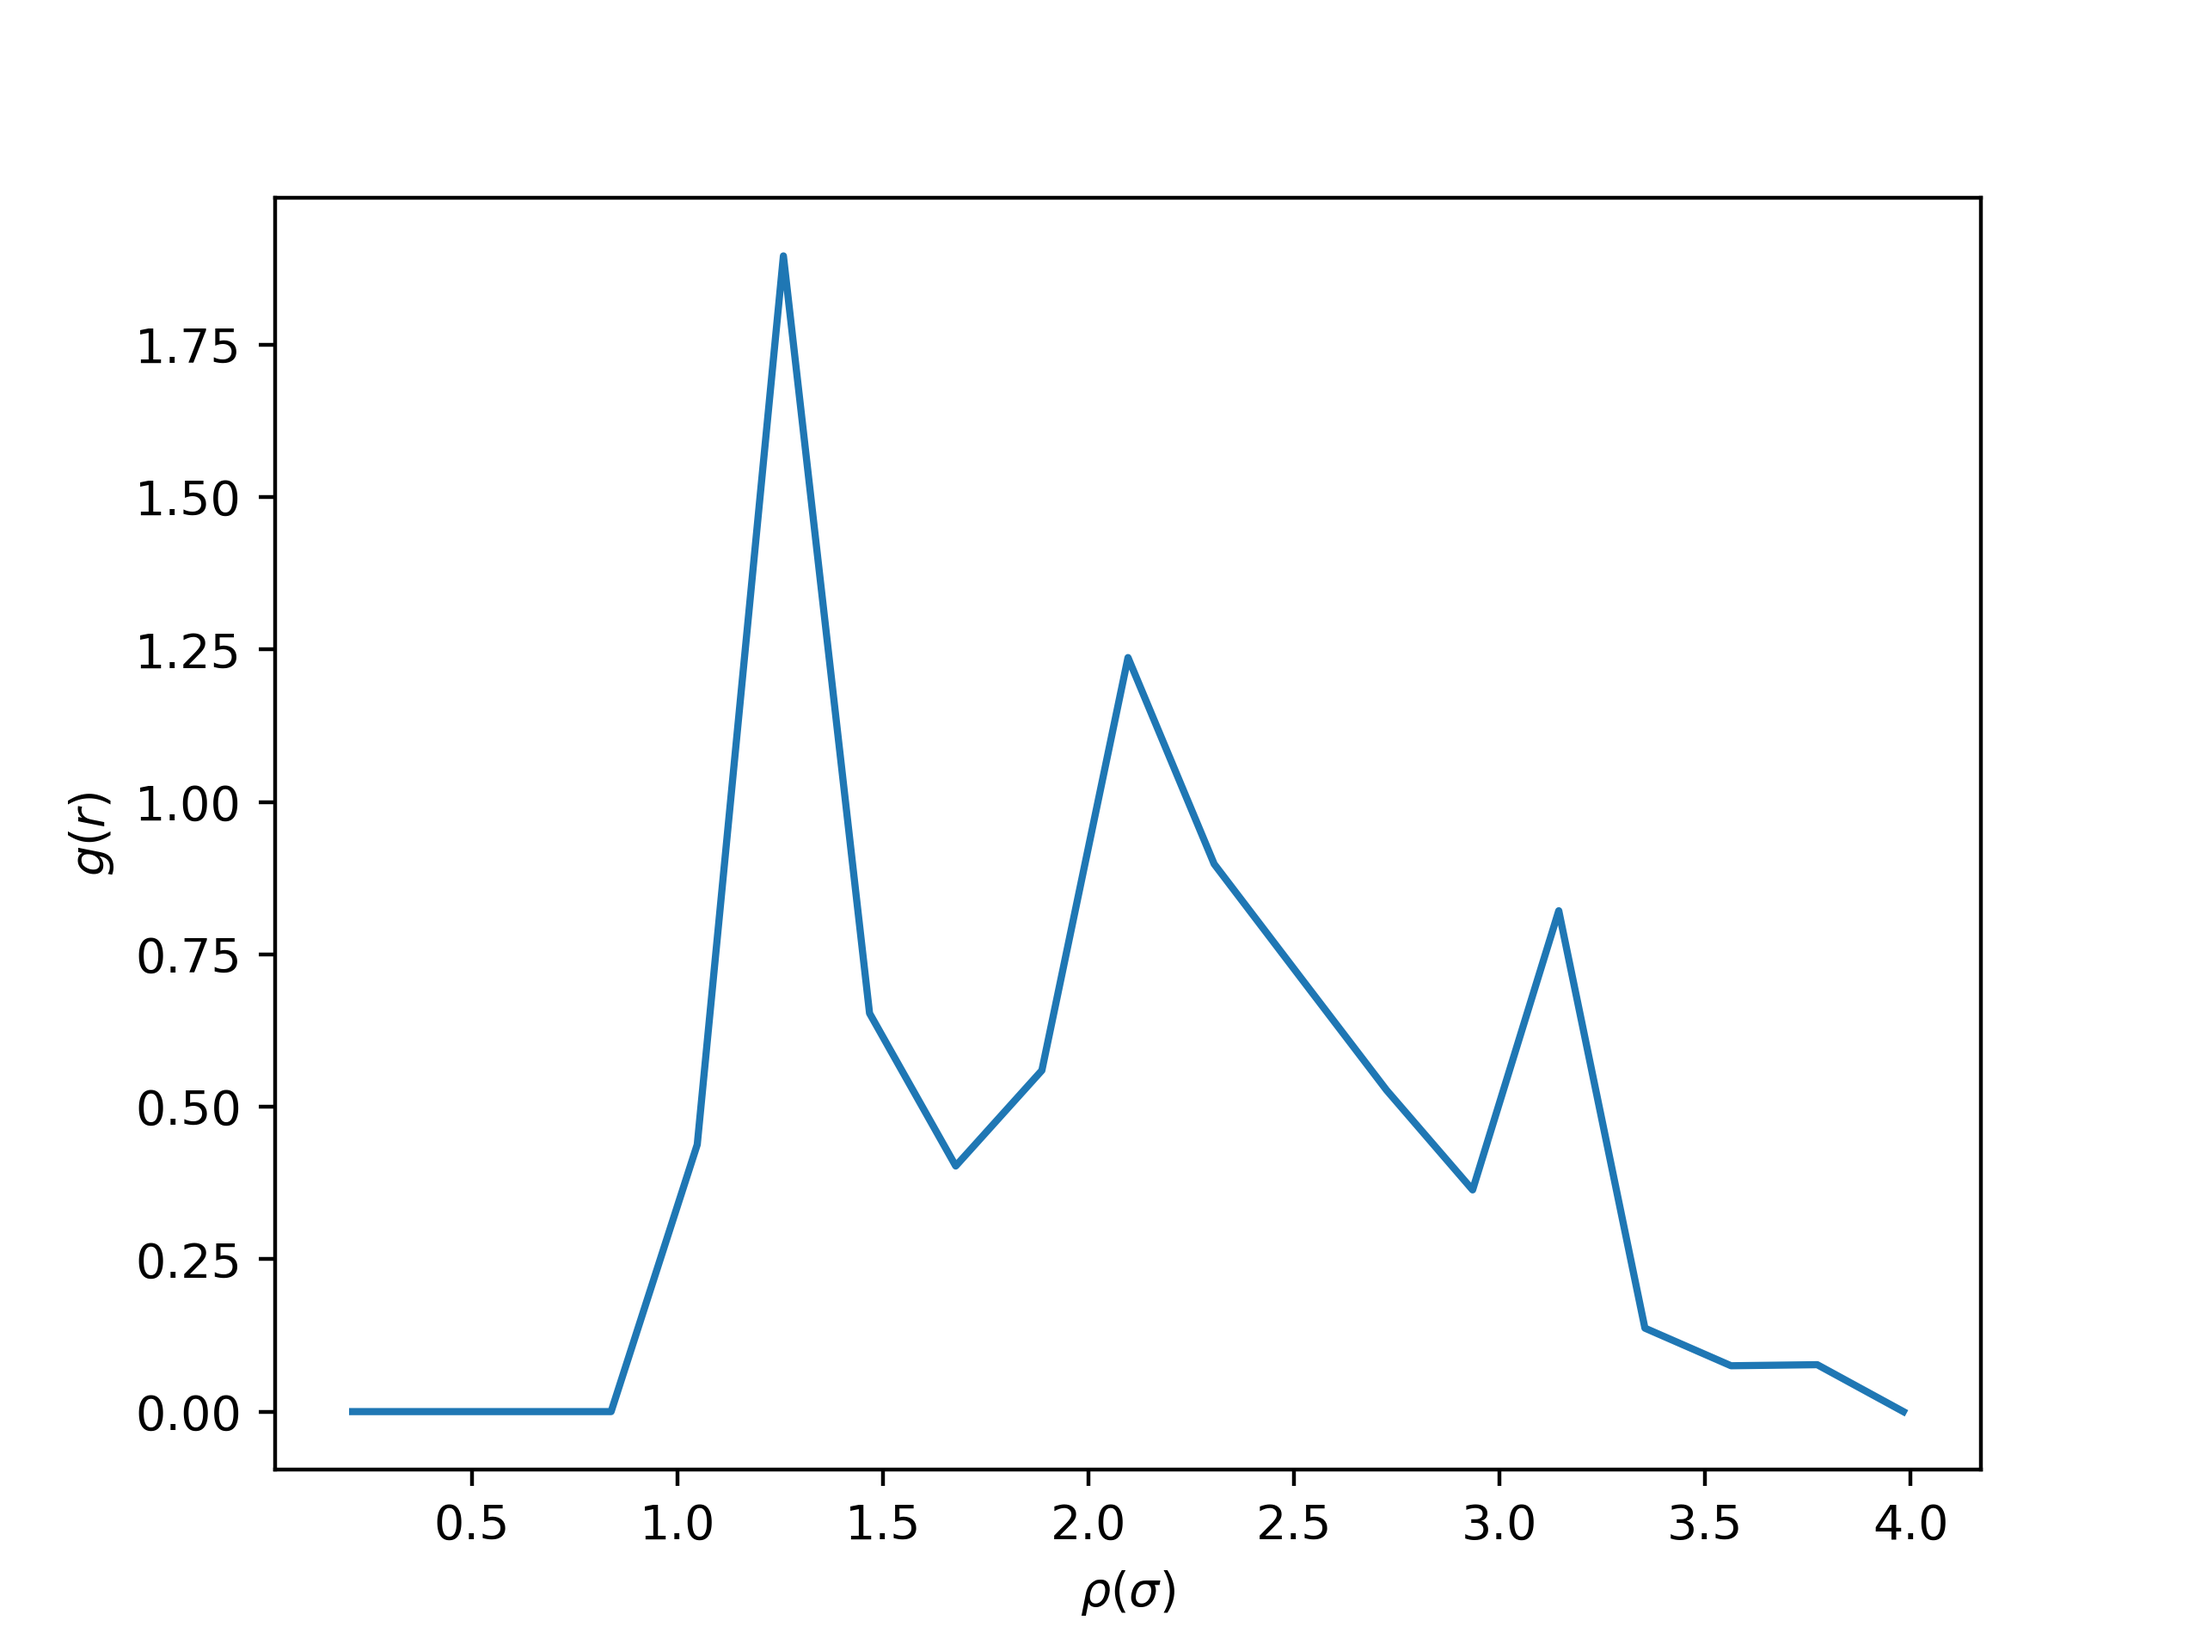
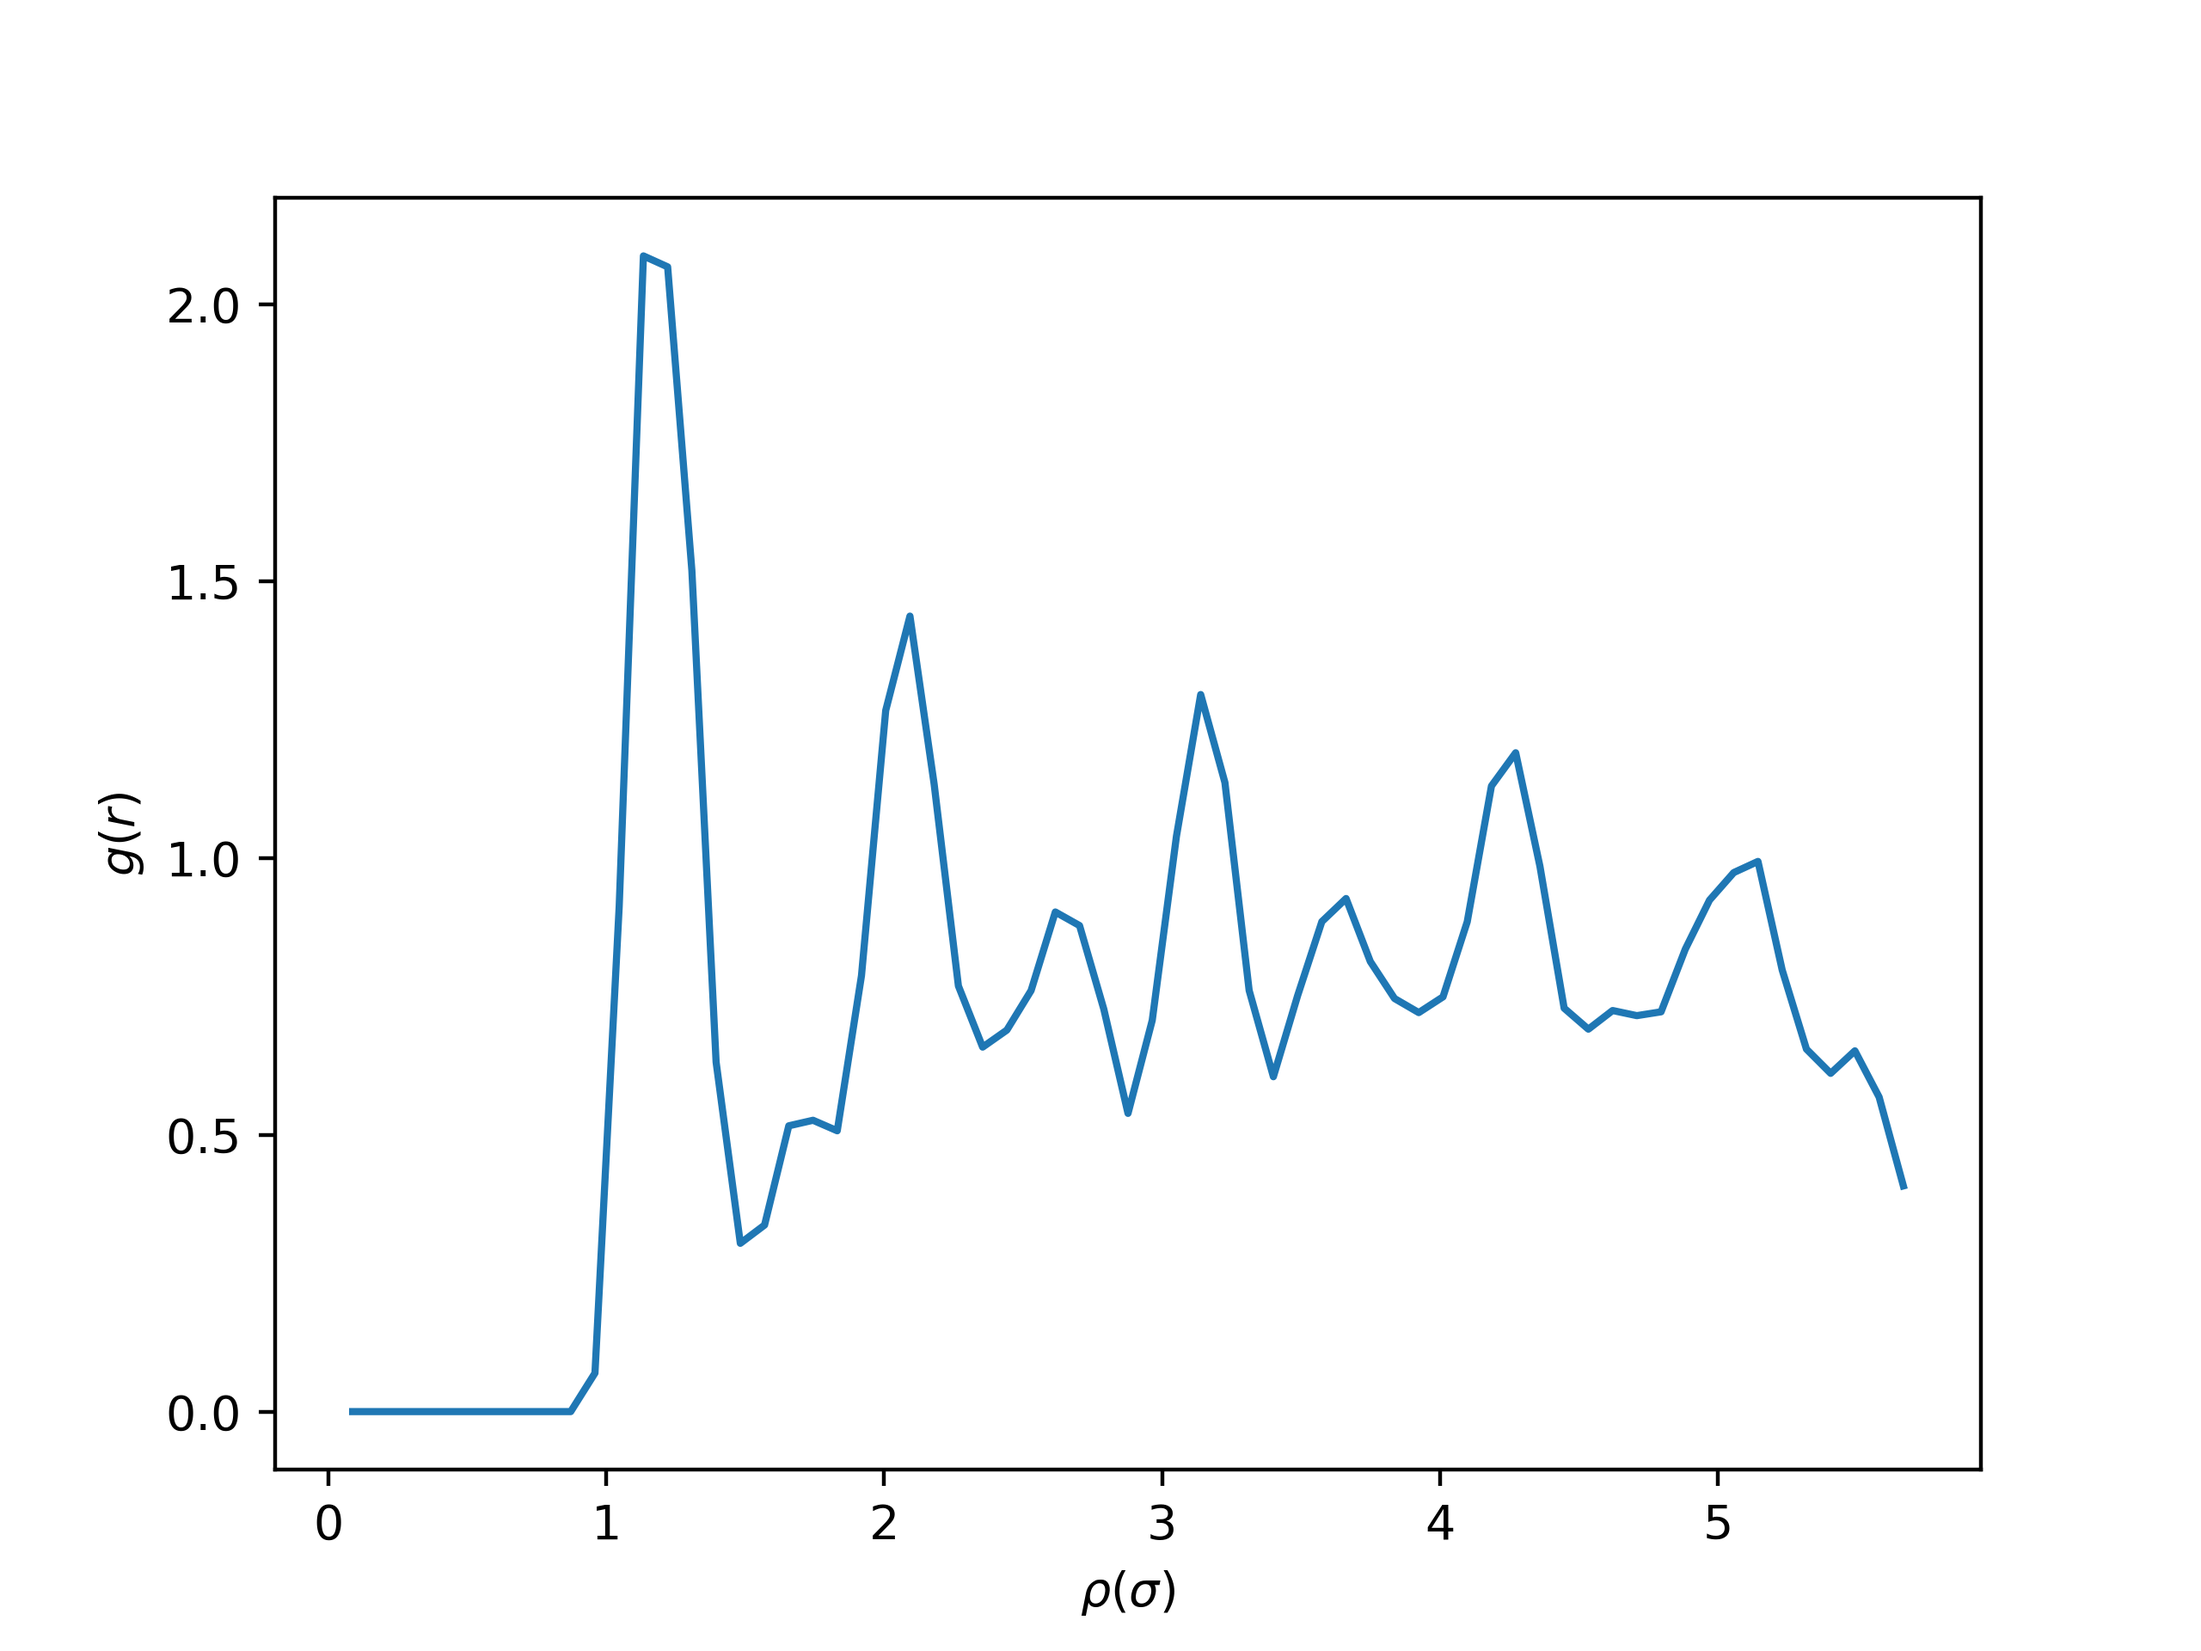
hw2: D solved

diff --git a/backup/hw2_5.py b/backup/hw2_5.py
@@ -1,0 +1,133 @@
+import numpy as np
+from itertools import product
+from matplotlib import pyplot as plt
+from scipy.optimize import curve_fit
+import copy
+
+
+sigma = 0.3405
+rho = 0.8676  # density of Argon in reduced units
+dt = 0.001  # time step size
+T_0 = 1.6945  # temperature
+N_cell = 3  # number of fcc unitcells in one direction
+N = 4 * N_cell ** 3  # the total number of particles in the system
+L_box = (N / rho) ** (1 / 3.0)  # length of the whole simulation box
+L_cell = L_box / N_cell  # length of a unitcell
+F = np.zeros((N, N, 3))  # matrix that contains all forces
+ind = np.triu_indices(N, k=1)  # indices of upper triangular matrix
+
+
+def IC_pos(N_cell, L_cell):
+    '''
+    use fcc structure to initilize positions
+    '''
+    pos = [[[x, y, z], [x, 0.5 + y, 0.5 + z], [0.5 + x, y, 0.5 + z], [0.5 + x, 0.5 + y, z]]
+           for x, y, z in product(range(N_cell), range(N_cell), range(N_cell))]
+    pos = np.array(pos).reshape((-1, 3))
+    return pos * L_cell
+
+
+def IC_vel(N):
+    '''
+    Maxwell-Boltzman distribution is a normal distribution
+    '''
+    vel = np.sqrt(T_0) * np.random.randn(N, 3)
+    vel -= np.average(vel, axis=0)
+    return vel
+
+
+def find_force(pos, L_box=L_box):
+    '''
+    Minimum image convention.
+    '''
+    r_vec = pos[ind[0]] - pos[ind[1]]
+    r_vec = r_vec - np.rint(r_vec / L_box) * L_box
+    r_sq = np.sum(r_vec ** 2, axis=1)
+    F_vec = -(48 / r_sq ** 7 - 24 / r_sq ** 4)[:, None] * r_vec
+    F[ind[0], ind[1]] = F_vec
+    pot = np.sum(4 / r_sq ** 6 - 4 / r_sq ** 3)
+    P = np.sum(F_vec * r_vec)
+    return np.sum(F, axis=0) - np.sum(F, axis=1), pot, P
+
+
+def time_step(pos, vel, F):
+    vel += 0.5 * F * dt
+    pos = pos + vel * dt
+    pos_folded = np.mod(pos, L_box)
+    # pos = np.mod(pos + vel * dt, L_box) # why both pos and pos_folded?
+    F, pot, P = find_force(pos_folded)
+
+    vel += 0.5 * F * dt
+    kin = 0.5 * np.sum(vel ** 2)
+    return pos, vel, F, pot, kin, P
+
+def simulate():
+    kins, pots, Ps, pos0, vel0, poss, vels = [], [], [], [], [], [], []
+    pos, vel = IC_pos(N_cell, L_cell), IC_vel(N)
+    F = find_force(pos)[0]
+    for t in range(int(4/dt)):
+        pos, vel, F, pot, kin, P = time_step(pos, vel, F)
+        if t == int(2/dt):
+            pos0 = copy.deepcopy(pos)
+            vel0 = copy.deepcopy(vel)
+
+        if t > int(2/dt):  # production run
+            kins.append(kin)
+            pots.append(pot)
+            Ps.append(P)
+            poss.append(np.sum((pos-pos0)**2, axis=1))
+            vel_2 = []
+            for index, v in enumerate(vel):
+                vel_pro = v[0]*vel0[index][0]+v[1]*vel0[index][1]+v[2]*vel0[index][2]
+                vel_2.append(vel_pro)
+            vels.append(vel_2)
+        else: # equillirum run
+            vel *= np.sqrt(N * 3 * T_0 / (2 * kin))
+    return np.array(kins), np.array(pots), np.array(Ps), np.array(pos0), np.array(vel0), np.array(poss), np.array(vels)
+
+def Fit(x,k,b):
+    return k * x + b
+
+if __name__ == "__main__":
+    kins, pots, Ps, pos0, vel0, poss, vels = simulate()
+    time = []
+    for i in range(len(kins)):
+        time.append(dt * i)
+
+    r_average = []
+    for i in poss:
+        r_average.append(np.sum(i)/N)
+
+    D = 0
+    for i in vels:
+        D += np.sum(i)*dt/(3*N)
+    print('Diffusion constant from Green-Kubo relation:',D)
+
+    k = curve_fit(Fit, time, r_average)[0][0]
+    print('Diffusion constant from Einstein relation:', k/6)
+
+
+
+
+
+
+
+
+
+
+
+
+
+
+
+
+
+
+
+
+
+
+
+
+
+

diff --git a/hw3/mc.py b/hw3/mc.py
@@ -10,7 +10,7 @@ import matplotlib.pyplot as plt
 
 rho = float(1458 / 1680)  # density of Argon in reduced units
 T_0 = float(203 / 119.8)  # temprature
-N_cell = 3  # number of fcc unitcells in one direction
+N_cell = 6  # number of fcc unitcells in one direction
 N = 4 * N_cell**3  # the total number of particles in the system
 L_box = (N / rho)**(1 / 3.0)  # length of the whole simulation box
 L_cell = L_box / N_cell  # length of a unitcell
@@ -103,13 +103,13 @@ def radial_distribution(r_final):
     '''
 
     r_distribution = (r_final + np.transpose(r_final)).reshape(-1)
-    r_ = np.linspace(np.min(r_distribution), np.max(r_distribution), 20)
-    dr = (np.max(r_distribution) - np.min(r_distribution)) / 20
+    r_ = np.linspace(np.min(r_distribution), np.max(r_distribution), 100)
+    dr = (np.max(r_distribution) - np.min(r_distribution)) / 100
     v = (r_**2 * (4 * math.pi * dr))[1:]
-    cout = np.zeros(19)
+    cout = np.zeros(99)
 
     for r in r_distribution:
-        for i in range(18):
+        for i in range(98):
             if (r_[i] < r < r_[i + 1]):
                 cout[i] += 1
 
@@ -118,7 +118,7 @@ def radial_distribution(r_final):
 
 if __name__ == "__main__":
 
-    steps = 2000
+    steps = 4000
     r_final = simulate(steps)
 
     couts, r_dis = radial_distribution(r_final)
@@ -127,7 +127,7 @@ if __name__ == "__main__":
     print(couts.shape[0], r_dis.shape[0])
     if (couts.shape[0] == r_dis.shape[0]):
         print("i am here")
-        plt.plot(r_dis, couts)
+        plt.plot(r_dis[:65], couts[:65])
         plt.xlabel("$\\rho(\sigma)$")
         plt.ylabel("$g(r)$")
         plt.savefig("./figs/raditial_func.png", dpi=400)

diff --git a/hw2/report/hw2.md b/hw2/report/hw2.md
@@ -38,16 +38,4 @@ The radial distribution function is shown:
 
 ## 5
 
-It should be the same when we use the two different methods. But my numerical results show that it has some difference. When computing MSDs, we should use unfolded coordinates because we want to get the true displacement of the atoms.
-
-There may be something wrong in my code ?
-
-```python
-# in every production step,
-# I use the following code to record msd
-msd = np.sum((pos - pos_0)**2) / N
-msd_list.append(msd)
-# calculate the gradient of msd_list
-D1 = np.average(np.gradient(np.array(msd_list))/ (0.004*6)
-```
-
+problem solved. remember the copy feature of python.

diff --git a/backup/README.md b/backup/README.md
@@ -1,0 +1,3 @@
+# README
+
+This is chengfeng Cao's realization of hw2(calculating D).
